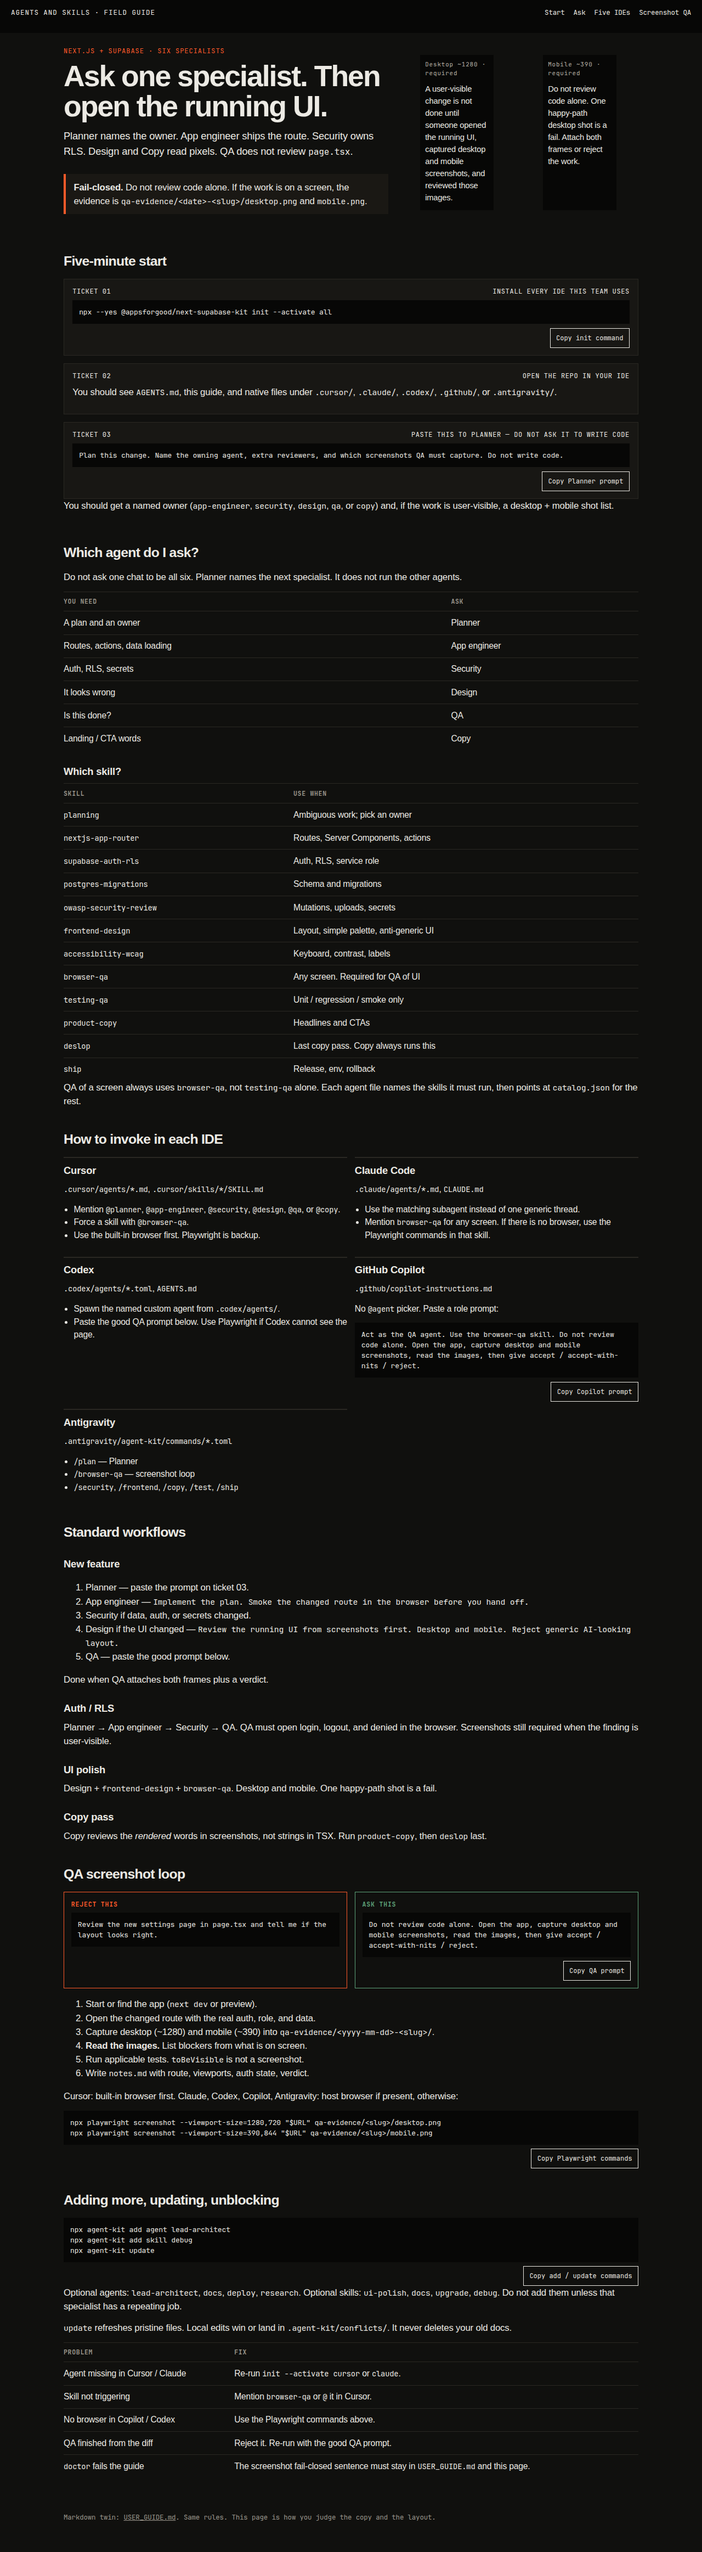
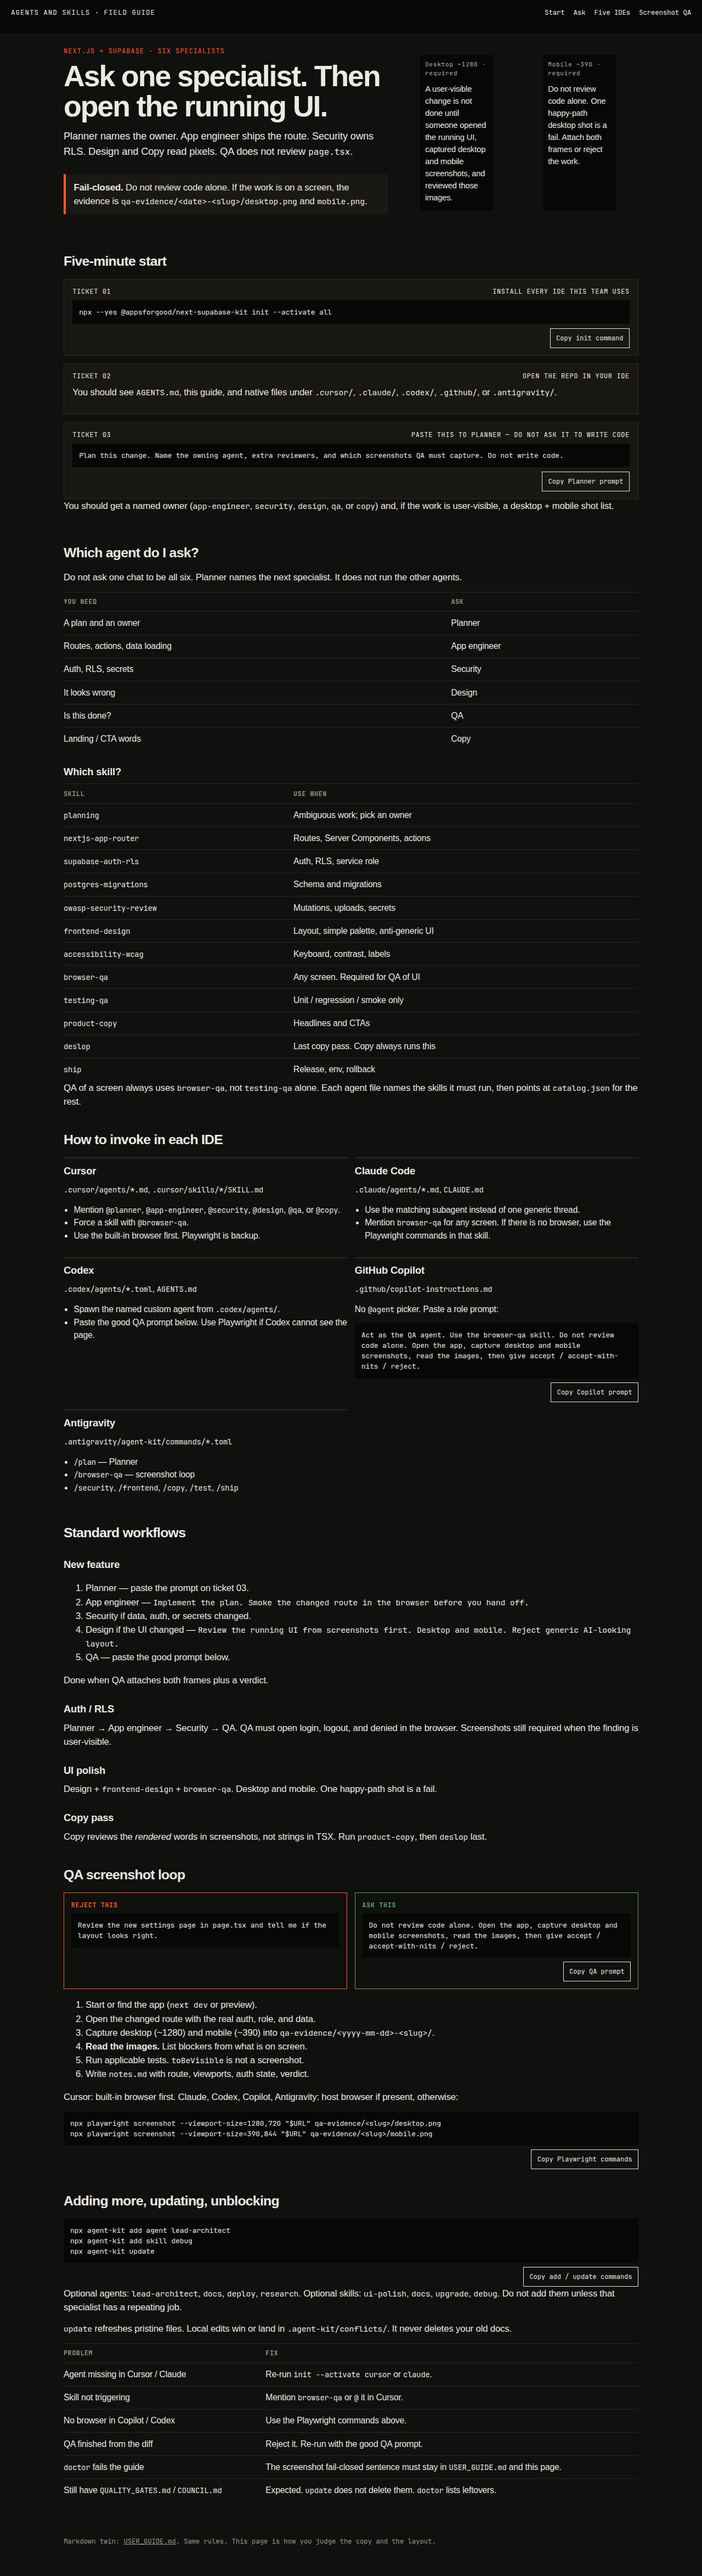
Warn on leftover 0.3 council files without deleting them
doctor lists QUALITY_GATES.md, COUNCIL.md, and roster JSON as warnings, not failures. update reports leftoverDocs and still never deletes those files.

diff --git a/tests/doctor-legacy.test.ts b/tests/doctor-legacy.test.ts
@@ -1,0 +1,57 @@
+import { existsSync, mkdirSync, mkdtempSync, rmSync, writeFileSync } from "node:fs";
+import { tmpdir } from "node:os";
+import { join } from "node:path";
+import { afterEach, describe, expect, it } from "vitest";
+import { createDoctorReport, listLegacyLeftovers } from "../src/install/doctor.js";
+import { initProject } from "../src/install/install.js";
+import { updateProject } from "../src/install/update.js";
+
+let roots: string[] = [];
+
+afterEach(() => {
+  for (const root of roots) rmSync(root, { recursive: true, force: true });
+  roots = [];
+});
+
+function temp(): string {
+  const root = mkdtempSync(join(tmpdir(), "agent-kit-legacy-"));
+  roots.push(root);
+  return root;
+}
+
+describe("legacy 0.3 leftovers", () => {
+  it("doctor passes a fresh 0.4 init without a leftover warning", () => {
+    const root = temp();
+    initProject({ cwd: root });
+    const report = createDoctorReport(root);
+    expect(report.ok).toBe(true);
+    expect(report.findings.some((finding) => finding.area === "legacy" && finding.level === "pass")).toBe(true);
+    expect(listLegacyLeftovers(root)).toEqual([]);
+  });
+
+  it("doctor warns when 0.3 council files remain and still reports ok", () => {
+    const root = temp();
+    initProject({ cwd: root });
+    writeFileSync(join(root, "QUALITY_GATES.md"), "# leftover\n");
+    writeFileSync(join(root, "COUNCIL.md"), "# leftover\n");
+    mkdirSync(join(root, ".agent-kit"), { recursive: true });
+    writeFileSync(join(root, ".agent-kit/agent-roster.json"), "{}\n");
+
+    const report = createDoctorReport(root);
+    expect(report.ok).toBe(true);
+    const warning = report.findings.find((finding) => finding.area === "legacy" && finding.level === "warn");
+    expect(warning?.message).toContain("QUALITY_GATES.md");
+    expect(warning?.message).toContain("COUNCIL.md");
+    expect(warning?.message).toContain("update never deletes");
+    expect(existsSync(join(root, "QUALITY_GATES.md"))).toBe(true);
+  });
+
+  it("update lists leftover docs and does not delete them", () => {
+    const root = temp();
+    initProject({ cwd: root });
+    writeFileSync(join(root, "QUALITY_GATES.md"), "# leftover\n");
+    const result = updateProject({ cwd: root });
+    expect(result.leftoverDocs).toContain("QUALITY_GATES.md");
+    expect(existsSync(join(root, "QUALITY_GATES.md"))).toBe(true);
+  });
+});

diff --git a/src/install/doctor.ts b/src/install/doctor.ts
@@ -16,6 +16,17 @@ export interface DoctorReport {
   ok: boolean;
 }
 
+/** Unique 0.3 council-OS files. Product SECURITY.md / DESIGN.md are not listed. */
+export const LEGACY_LEFTOVER_PATHS = [
+  "AGENT_ROSTER.md",
+  "COUNCIL.md",
+  "SKILLS.md",
+  "QUALITY_GATES.md",
+  "ASSISTANT_ADAPTERS.md",
+  ".agent-kit/agent-roster.json",
+  ".agent-kit/orchestrator.json"
+] as const;
+
 function summarize(findings: DoctorFinding[]): Record<DoctorLevel, number> {
   return {
     pass: findings.filter((item) => item.level === "pass").length,
@@ -27,6 +38,10 @@ function summarize(findings: DoctorFinding[]): Record<DoctorLevel, number> {
 function read(cwd: string, relative: string): string | null {
   const path = join(cwd, relative);
   return existsSync(path) ? readFileSync(path, "utf8") : null;
+}
+
+export function listLegacyLeftovers(cwd: string): string[] {
+  return LEGACY_LEFTOVER_PATHS.filter((relative) => existsSync(join(cwd, relative)));
 }
 
 export function createDoctorReport(cwd: string): DoctorReport {
@@ -87,6 +102,23 @@ export function createDoctorReport(cwd: string): DoctorReport {
     } else {
       findings.push({ level: "pass", area: "agents", message: `${id} declares tools.` });
     }
+  }
+
+  const leftovers = listLegacyLeftovers(cwd);
+  if (leftovers.length > 0) {
+    const preview = leftovers.slice(0, 6).join(", ");
+    const extra = leftovers.length > 6 ? `, +${leftovers.length - 6} more` : "";
+    findings.push({
+      level: "warn",
+      area: "legacy",
+      message: `0.3 leftover files are still here: ${preview}${extra}. 0.4 uses AGENTS.md + USER_GUIDE. update never deletes these.`
+    });
+  } else {
+    findings.push({
+      level: "pass",
+      area: "legacy",
+      message: "No 0.3 council leftover files detected."
+    });
   }
 
   return {

diff --git a/src/install/update.ts b/src/install/update.ts
@@ -9,6 +9,7 @@ import { initProject, readManifest } from "./install.js";
 import { activateIdeTargets } from "./ide-activate.js";
 import { listManagedAssets } from "./managed-assets.js";
 import { generatePortableSkills } from "./roster-adapters.js";
+import { listLegacyLeftovers } from "./doctor.js";
 import type { CopyCollector } from "./copy-asset.js";
 import type { IdeTarget } from "./ide-activate.js";
 
@@ -27,6 +28,7 @@ export interface UpdateResult {
   libraryFoldersRefreshed: string[];
   manifestPath: string;
   summary: Record<UpdateAction, number>;
+  leftoverDocs: string[];
 }
 
 export interface UpdateOptions {
@@ -99,7 +101,8 @@ export function updateProject(options: UpdateOptions): UpdateResult {
       files,
       libraryFoldersRefreshed: [],
       manifestPath: ".agent-kit/manifest.json",
-      summary: summarize(files)
+      summary: summarize(files),
+      leftoverDocs: listLegacyLeftovers(cwd)
     };
   }
 
@@ -175,6 +178,7 @@ export function updateProject(options: UpdateOptions): UpdateResult {
     files,
     libraryFoldersRefreshed: [],
     manifestPath: ".agent-kit/manifest.json",
-    summary: summarize(files)
+    summary: summarize(files),
+    leftoverDocs: listLegacyLeftovers(cwd)
   };
 }

diff --git a/src/cli/index.ts b/src/cli/index.ts
@@ -66,6 +66,9 @@ program
     line(
       `created ${result.summary.created}, updated ${result.summary.updated}, kept-local ${result.summary["kept-local"]}, conflicts ${result.summary.conflict}`
     );
+    if (result.leftoverDocs.length > 0) {
+      detail(`Left in place (not deleted): ${result.leftoverDocs.join(", ")}. Run doctor for the 0.4 layout.`);
+    }
   });
 
 const add = program.command("add").description("Add an optional agent or skill.");
@@ -104,7 +107,7 @@ add
 
 program
   .command("doctor")
-  .description("Check that agents, skills, and the screenshot QA rule are present.")
+  .description("Check agents, skills, the screenshot QA rule, and leftover 0.3 council files.")
   .option("--json", "Machine-readable output")
   .action((options: { json?: boolean }) => {
     const report = createDoctorReport(process.cwd());

diff --git a/USER_GUIDE.html b/USER_GUIDE.html
@@ -767,6 +767,10 @@ npx agent-kit update</pre>
               <td><code>doctor</code> fails the guide</td>
               <td>The screenshot fail-closed sentence must stay in <code>USER_GUIDE.md</code> and this page.</td>
             </tr>
+            <tr>
+              <td>Still have <code>QUALITY_GATES.md</code> / <code>COUNCIL.md</code></td>
+              <td>Expected. <code>update</code> does not delete them. <code>doctor</code> lists leftovers.</td>
+            </tr>
           </tbody>
         </table>
       </section>

diff --git a/examples/next-supabase-installed/USER_GUIDE.html b/examples/next-supabase-installed/USER_GUIDE.html
@@ -767,6 +767,10 @@ npx agent-kit update</pre>
               <td><code>doctor</code> fails the guide</td>
               <td>The screenshot fail-closed sentence must stay in <code>USER_GUIDE.md</code> and this page.</td>
             </tr>
+            <tr>
+              <td>Still have <code>QUALITY_GATES.md</code> / <code>COUNCIL.md</code></td>
+              <td>Expected. <code>update</code> does not delete them. <code>doctor</code> lists leftovers.</td>
+            </tr>
           </tbody>
         </table>
       </section>

diff --git a/DECISIONS.md b/DECISIONS.md
@@ -2,6 +2,20 @@
 
 This file records package-level architectural and research decisions for the agent kit.
 
+## 2026-09-08 - Doctor Warns On 0.3 Leftovers
+
+### Context
+
+0.4.0 is a breaking simplify, but `update` never deletes old council docs. A 0.3 install that ran `update` looked the same as a fresh 0.4 tree unless someone knew which files were leftovers.
+
+### Decision
+
+`doctor` warns (does not fail) when unique 0.3 files such as `QUALITY_GATES.md`, `COUNCIL.md`, and `.agent-kit/agent-roster.json` remain. `update --json` lists them as `leftoverDocs`. Product files like `SECURITY.md` are not treated as kit leftovers.
+
+### Consequences
+
+A 0.3 project can keep its old docs. `doctor` names the 0.4 layout. Fresh inits stay warning-free for this check.
+
 ## 2026-09-06 - Planner Routes, Agents See The Catalog
 
 ### Context

diff --git a/UPGRADE.md b/UPGRADE.md
@@ -4,7 +4,7 @@
 
 This is a breaking simplify. `init` now writes `AGENTS.md`, `USER_GUIDE.md`, and native IDE agents/skills. It does not install the 17-doc operating system, Studio, or orchestrator files.
 
-`update` never deletes your existing files. Old `SPEC.md`, `QUALITY_GATES.md`, and `.agent-kit/` trees stay as unmanaged leftovers.
+`update` never deletes your existing files. Old `SPEC.md`, `QUALITY_GATES.md`, and `.agent-kit/` trees stay as unmanaged leftovers. `doctor` warns when those 0.3 council files are still present; that warning is not a failure.
 
 ```bash
 npx @appsforgood/next-supabase-kit@latest init --activate all

diff --git a/CHANGELOG.md b/CHANGELOG.md
@@ -12,6 +12,7 @@
 - Add default `deslop` skill. Copy always runs it last after `product-copy`.
 - Uplift `frontend-design`: 4-token palettes, kit vs product tokens, and 2026 default-cluster rejects from current public skill packs.
 - Planner uses the `planning` skill and names owners; it does not run the other agents. Every agent file points at `catalog.json` and the USER_GUIDE skill table for the full list.
+- `doctor` warns when 0.3 council leftovers (`QUALITY_GATES.md`, `COUNCIL.md`, roster JSON, …) are still present. That is not a failure. `update` still never deletes them.
 
 ## 0.3.0
 

diff --git a/USER_GUIDE.md b/USER_GUIDE.md
@@ -180,3 +180,4 @@ Pristine files refresh. Local edits win or land in `.agent-kit/conflicts/`. Do n
 | No browser in Copilot / Codex | Use the Playwright commands in `browser-qa`. |
 | QA finished from the diff | Reject it. Re-run with the good QA prompt above. |
 | `doctor` fails USER_GUIDE | The screenshot fail-closed sentence must stay in this file. |
+| Still have `QUALITY_GATES.md` / `COUNCIL.md` | Expected. `update` does not delete them. `doctor` lists leftovers. |

diff --git a/examples/next-supabase-installed/USER_GUIDE.md b/examples/next-supabase-installed/USER_GUIDE.md
@@ -180,3 +180,4 @@ Pristine files refresh. Local edits win or land in `.agent-kit/conflicts/`. Do n
 | No browser in Copilot / Codex | Use the Playwright commands in `browser-qa`. |
 | QA finished from the diff | Reject it. Re-run with the good QA prompt above. |
 | `doctor` fails USER_GUIDE | The screenshot fail-closed sentence must stay in this file. |
+| Still have `QUALITY_GATES.md` / `COUNCIL.md` | Expected. `update` does not delete them. `doctor` lists leftovers. |

diff --git a/qa-evidence/2026-09-06-user-guide/notes.md b/qa-evidence/2026-09-06-user-guide/notes.md
@@ -2,5 +2,5 @@ route: USER_GUIDE.html
 viewport: desktop 1280x800 and mobile 390x844
 auth: none
 verdict: accept
-what changed: Planner dispatcher line and catalog.json pointer under the skill table. No clip on desktop or mobile.
+what changed: troubleshooting row for leftover QUALITY_GATES.md / COUNCIL.md. Row fits; no clip.
 Do not review code alone.
